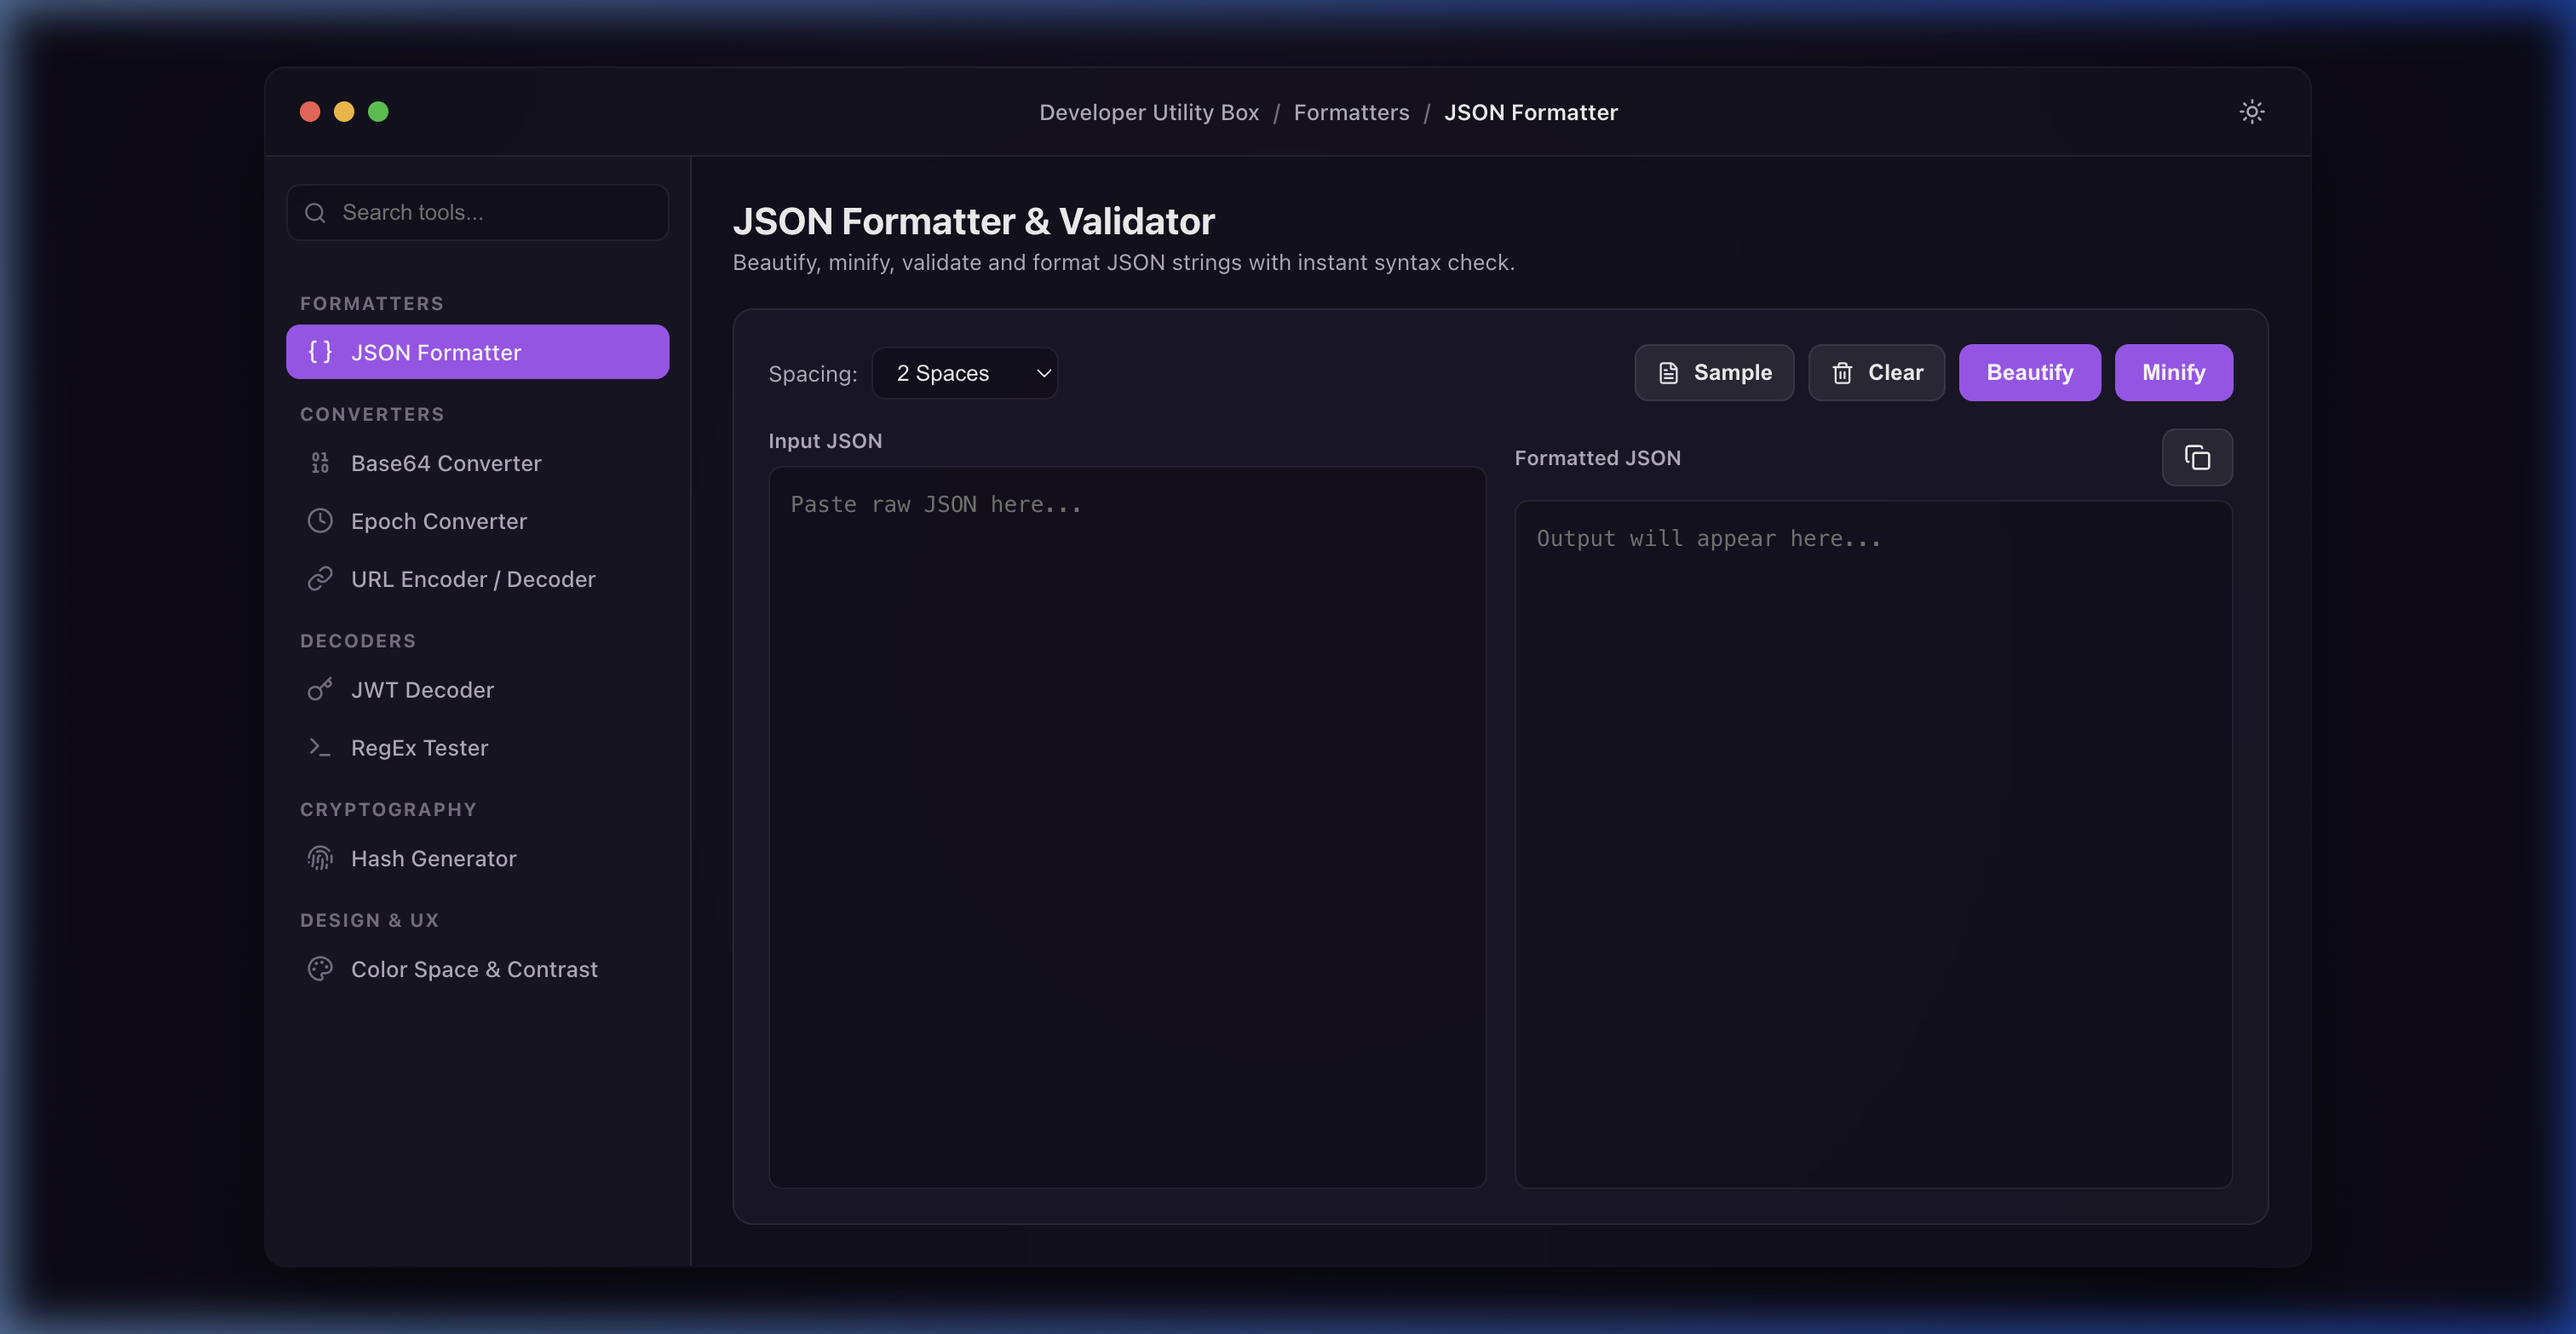
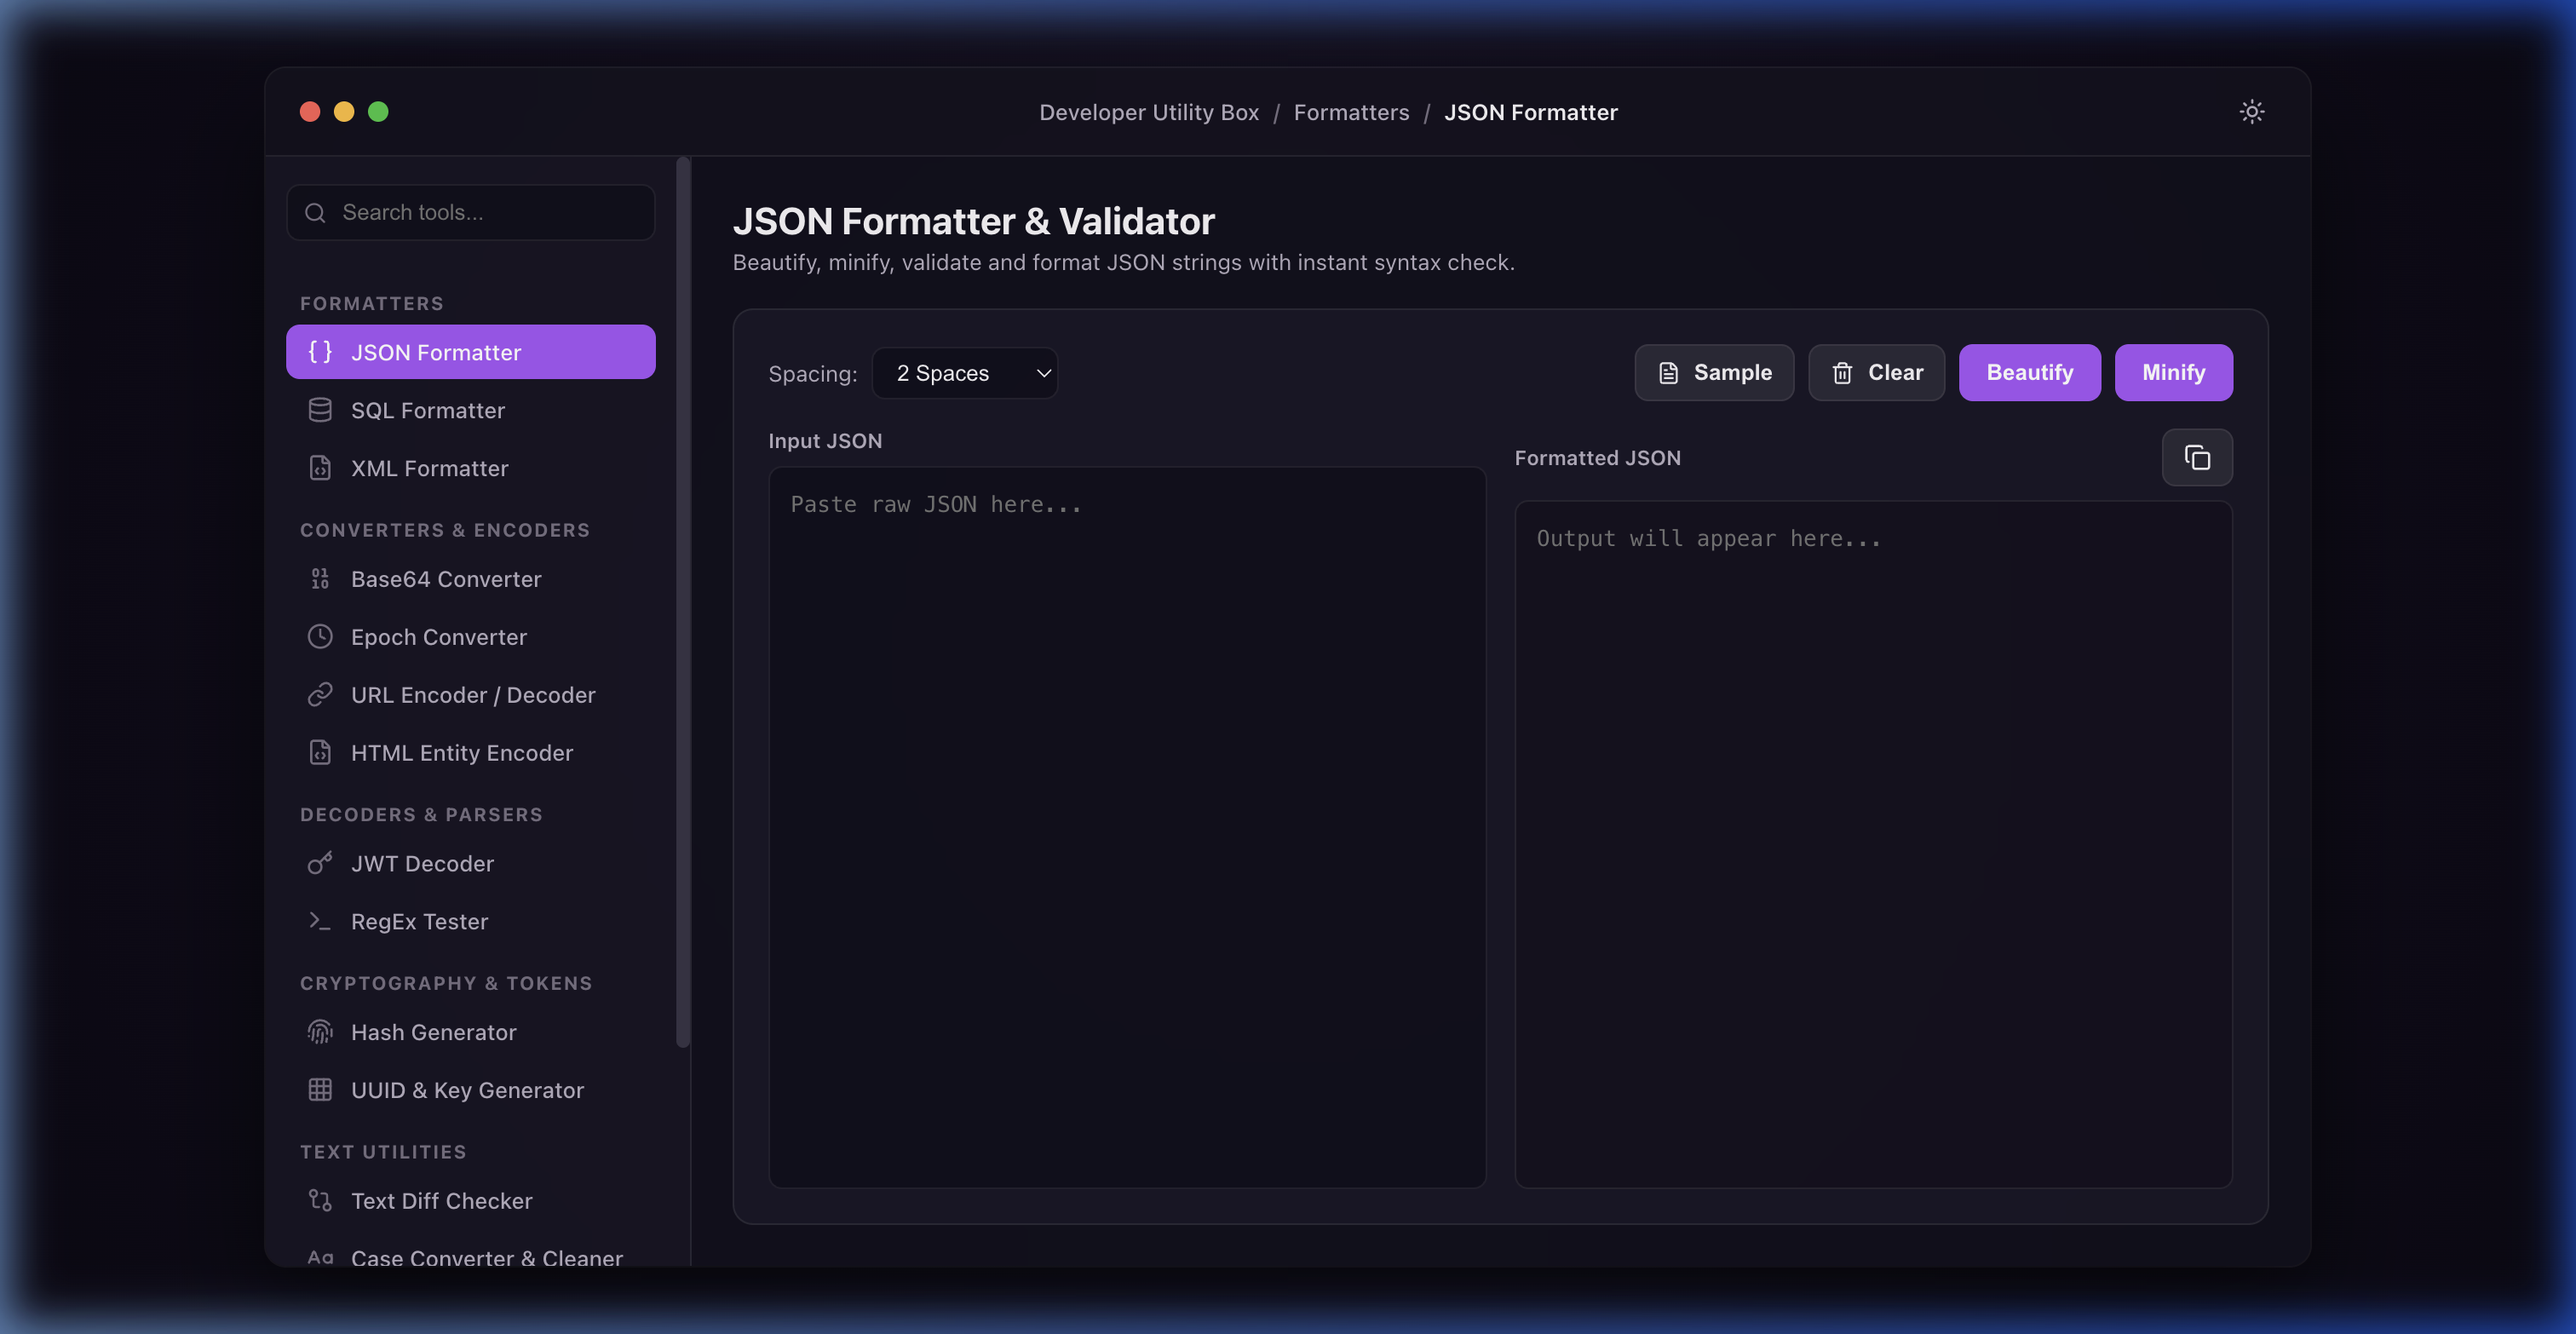
Update screenshots and features list in README

diff --git a/README.md b/README.md
@@ -12,21 +12,27 @@ Built with **React, TypeScript, Vite, and Electron**, it runs completely locally
 | --- | --- |
 | ![Dark Mode](./screenshots/dark-mode.png) | ![Light Mode](./screenshots/light-mode.png) |
 
-### JSON Formatter Utility
-![JSON Formatter](./screenshots/json-formatter.png)
+### XML Formatter Utility
+![XML Formatter](./screenshots/xml-formatter.png)
 
 ---
 
 ## ✨ Features
 
 - ⚙ **JSON Formatter & Validator**: Beautify (2/4 spaces or tabs), minify, and validate JSON inputs with instant syntax error locations.
-- 📦 **Base64 Encoder & Decoder**: Encode and decode text strings or drag-and-drop files (images, configs) to Base64 and HTML/CSS Data URL streams.
+- 📄 **XML Formatter**: Beautify, minify, and validate XML strings with indentation spacing and unbalanced tag checks.
+- 🖨 **SQL Formatter**: Format and indent SQL queries supporting PostgreSQL, MySQL, SQLite, and Standard SQL dialects.
+- 📦 **Base64 Converter**: Encode and decode text strings or drag-and-drop files (images, configs) to Base64 and HTML/CSS Data URL streams.
 - ⏰ **Epoch Timestamp Converter**: A live-ticking UNIX timestamp banner with pause/copy functions, and bidirectional translation to UTC, Local, and Relative date formats.
+- 🔏 **HTML Entity Encoder**: Escape special HTML control characters to entity strings and decode entities back to plain text.
 - 🔑 **JWT Decoder**: Inspect JWT tokens, automatically dividing Header, Payload, and Signature metadata with expiry alerts and claims verification.
 - 🎯 **RegEx Match Tester**: Compile expressions in real-time, highlight matching nodes safely with infinite-loop prevention, and view matches list.
 - 🔒 **Cryptographic Hash Generator**: Generate MD5, SHA-1, SHA-256, and SHA-512 checksums instantly and locally.
-- 🎨 **Color Converter & Contrast Checker**: Convert colors between HEX, RGB, and HSL color spaces. Features a WCAG 2.1 contrast ratio calculator with compliance status badges (AA/AAA) for user interface accessibility.
-- 🔗 **URL Encoder / Decoder**: Safely encode query variables for URL routing, or decode percentage-encoded URI strings.
+- 🔑 **UUID & Key Generator**: Batch generate UUID v4 values or create strong custom password keys with strength indicators.
+- 🎨 **Color Converter & Contrast Checker**: Convert colors between HEX, RGB, and HSL spaces. Features a WCAG 2.1 contrast ratio calculator with compliance status badges (AA/AAA).
+- 🔀 **Text Diff Checker**: Compare text snippets side-by-side or inline using line or word diff highlighting.
+- 🔤 **String Case Converter**: Convert text casing between camelCase, snake_case, kebab-case, PascalCase, uppercase, and lowercase.
+- 📝 **Live Markdown Previewer**: Compose Markdown syntax and preview the rendered styled HTML output side-by-side.
 - 🌓 **macOS Light & Dark Themes**: Fully synchronized interface supporting a premium dark glassmorphism layout (default) and a crisp, clean light mode.
 
 ---
